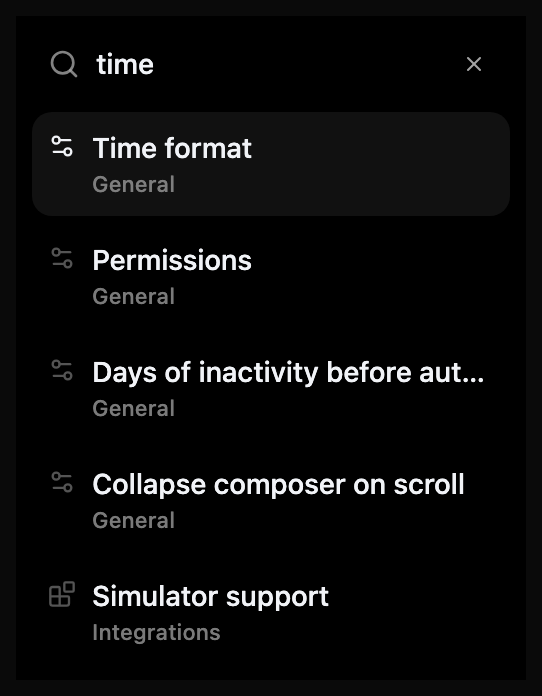
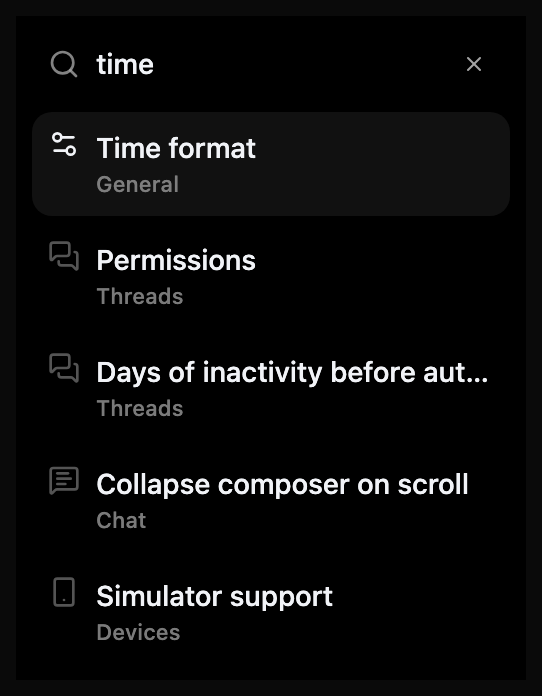
fix(fidelity): refresh classic panel and settings references
Recapture the unanswered two-question panel from Nightly 3754 with New design
off, using one Haiku 5.5 sandbox turn. Regenerate the grouped settings nav and
search results with the existing stylesheet. Match native question padding,
header slots, option colors, nav headings and icons while keeping Redesign
spacing. Fit the complete nav in its fixture and pin search to the 3754 catalog,
before the later Snooze options row.

T3 3754 source: apps/web/src/components/chat/ComposerPendingUserInputPanel.tsx:187-295;
apps/web/src/components/settings/SettingsSidebarNav.tsx:83-122,313-403;
apps/web/src/components/settings/settingsSearch.ts:85-143.

Keep every ceiling. Approval 05 needs no new reference: changing only the
model label to Haiku 5.5 reproduces the 0.0615 light diff; the full label gives
0.0533 after the existing 068aa9c3 revert. Remove the diagnostic override.

Validation: focused filter passes 7 tests; all fidelity passes 71 Features and
66 DesignSystem tests; fast lane passes 2181 Swift Testing and 18 XCTest tests.
Review native WindowServer question and nav captures in light and dark. An
existing system Keychain dialog from another process blocks keyboard search
interaction. Quit the test app, release the screen lock and remove its build.

diff --git a/Packages/CandyKit/Sources/Features/Composer/Panels/QuestionPanelView.swift b/Packages/CandyKit/Sources/Features/Composer/Panels/QuestionPanelView.swift
@@ -41,10 +41,15 @@ public final class QuestionPanelView: ComposerBannerView {
 
     // MARK: Views
 
-    /// Default density: `px-1 py-1`, the 24px icon column, `gap-x-1`.
-    static let pad: CGFloat = 4, column: CGFloat = 24, headerHeight: CGFloat = 24
-    /// `ComposerBanner.Body`: `ps-7 pe-1 pb-1`.
-    static let bodyStart: CGFloat = 28, bodyEnd: CGFloat = 4, bodyBottom: CGFloat = 4
+    /// Default density: `px-1 py-1`; the classic question header adds `px-4 pt-1.5`.
+    /// Redesign keeps its existing spacing.
+    static let pad: CGFloat = 4
+    private var isDither: Bool { ThemeRuntime.isDither(dark: effectiveAppearance.isDark) }
+    private var headerHeight: CGFloat { isDither ? 24 : 30 }
+    /// Nightly 3754 ComposerPendingUserInputPanel.tsx:237-245: `sm:ps-5.5 pe-4 pb-1`.
+    private var bodyStart: CGFloat { isDither ? 28 : 22 }
+    private var bodyEnd: CGFloat { isDither ? 4 : 16 }
+    static let bodyBottom: CGFloat = 4
 
     private var threadId: ThreadId = ""
     private var collapsedQuestionId: String?
@@ -53,7 +58,7 @@ public final class QuestionPanelView: ComposerBannerView {
     private let header = HeaderButton()
     private let headerLabel = glassLabel(font: DSFont.ui(12, weight: .medium), color: Themed.color(\.mutedForeground), lineHeight: 16)
     private let collapsedQuestion = glassLabel(font: DSFont.ui(12), color: Themed.color(\.secondaryLabel), lineHeight: 16)
-    private let counter = glassLabel(font: SB.tabular(10, .medium), color: Themed.color(\.mutedForeground), lineHeight: 14)
+    private let counter = glassLabel(font: SB.tabular(12, .medium), color: Themed.color(\.mutedForeground), lineHeight: 16)
     /// `ComposerBanner.ToggleIcon`: a ghost icon-xs button drawn `pointer-events-none`, so only
     /// its chevron (ghost icon color) shows and the header row takes the click.
     private let chevronDown = IconView(name: .chevronDown, size: 14, strokeColor: Themed.color(\.contrastMutedForeground))
@@ -255,60 +260,68 @@ public final class QuestionPanelView: ComposerBannerView {
     // MARK: Layout
 
     private func bodyHeight(width: CGFloat) -> CGFloat {
-        let textWidth = max(0, width - 2 * Self.pad - Self.bodyStart - Self.bodyEnd)
-        var h = questionText.height(forWidth: textWidth)
+        let textWidth = max(0, width - 2 * Self.pad - bodyStart - bodyEnd)
+        var h = (isDither ? 0 : 8) + questionText.height(forWidth: textWidth)
         if !multiHint.isHidden { h += 4 + 16 }
-        h += 8
-        for (i, row) in rows.enumerated() { h += (i > 0 ? 2 : 0) + row.height(forWidth: textWidth) }
+        h += isDither ? 8 : 6
+        for (i, row) in rows.enumerated() {
+            h += (isDither && i > 0 ? 2 : 0) + row.height(forWidth: textWidth + (isDither ? 0 : 6))
+        }
         return h + Self.bodyBottom
     }
 
     /// The banner's full height at `width`, the 17px under the composer included.
     public func preferredHeight(width: CGFloat) -> CGFloat {
         let body = isCollapsed || session == nil ? 0 : min(maxBodyHeight, bodyHeight(width: width))
-        return Self.pad + Self.headerHeight + body + Self.pad + Self.overlap
+        return Self.pad + headerHeight + body + Self.pad + Self.overlap
     }
 
     public override func layout() {
         super.layout()
         let w = bounds.width, pad = Self.pad
-        header.frame = NSRect(x: pad, y: pad, width: w - 2 * pad, height: Self.headerHeight)
-        // Header actions, right to left: dismiss, chevron, counter (`gap-1`).
-        var right = w - pad
+        header.frame = NSRect(x: pad, y: pad, width: w - 2 * pad, height: headerHeight)
+        // Nightly 3754 ComposerPendingUserInputPanel.tsx:187-212: `px-4 pt-1.5`, 24px action slots.
+        var right = w - pad - (isDither ? 0 : 16)
+        let headerInset: CGFloat = isDither ? 0 : 6
+        counter.font = SB.tabular(isDither ? 10 : 12, .medium)
+        counter.lineHeight = isDither ? 14 : 16
         if !dismiss.isHidden {
-            dismiss.frame = NSRect(x: right - 24, y: pad, width: 24, height: 24)
-            right -= 24 + 4
+            dismiss.frame = NSRect(x: right - 24, y: pad + headerInset, width: 24, height: 24)
+            right -= isDither ? 28 : 24
         }
-        for chevron in [chevronDown, chevronUp] { chevron.frame = NSRect(x: right - 19, y: pad + 5, width: 14, height: 14) }
+        for chevron in [chevronDown, chevronUp] { chevron.frame = NSRect(x: right - 19, y: pad + headerInset + 5, width: 14, height: 14) }
         right -= 24
         if !counter.isHidden {
-            let cw = ceil(counter.textWidth)
-            counter.frame = NSRect(x: right - 4 - cw, y: pad + 5, width: cw, height: 14)
-            right -= 4 + cw
+            let cw: CGFloat = isDither ? ceil(counter.textWidth) : 24
+            counter.frame = NSRect(x: right - (isDither ? 4 : 0) - cw, y: pad + (isDither ? 5 : 10), width: cw, height: isDither ? 14 : 16)
+            counter.alignment = isDither ? .left : .center
+            right -= cw + (isDither ? 4 : 0)
         }
-        let x = pad + Self.column + 4
+        let x = pad + (isDither ? 28 : 16)
         let hw = min(ceil(headerLabel.textWidth), max(0, right - 4 - x))
-        headerLabel.frame = NSRect(x: x, y: pad + 4, width: hw, height: 16)
-        collapsedQuestion.frame = NSRect(x: x + hw + 4, y: pad + 4, width: max(0, right - 4 - x - hw - 4), height: 16)
+        headerLabel.frame = NSRect(x: x, y: pad + (isDither ? 4 : 10), width: hw, height: 16)
+        collapsedQuestion.frame = NSRect(x: x + hw + 4, y: pad + (isDither ? 4 : 10), width: max(0, right - 4 - x - hw - 4), height: 16)
 
         let full = bodyHeight(width: w)
         let visible = min(maxBodyHeight, full)
-        scroll.frame = NSRect(x: pad, y: pad + Self.headerHeight, width: w - 2 * pad, height: visible)
+        scroll.frame = NSRect(x: pad, y: pad + headerHeight, width: w - 2 * pad, height: visible)
         // `pe-2` clears the overlay scrollbar once there is something to scroll.
         let scrollGutter: CGFloat = full > visible ? 8 : 0
         body.frame = NSRect(x: 0, y: 0, width: w - 2 * pad, height: full)
-        let tx = Self.bodyStart, tw = max(0, w - 2 * pad - Self.bodyStart - Self.bodyEnd - scrollGutter)
+        let tx = bodyStart, tw = max(0, w - 2 * pad - bodyStart - bodyEnd - scrollGutter)
         var y = questionText.height(forWidth: tw)
-        questionText.frame = NSRect(x: tx, y: 0, width: tw, height: y)
+        questionText.frame = NSRect(x: tx, y: isDither ? 0 : 8, width: tw, height: y)
+        y += isDither ? 0 : 8
         if !multiHint.isHidden {
             multiHint.frame = NSRect(x: tx, y: y + 4, width: tw, height: 16)
             y += 20
         }
-        y += 8
+        y += isDither ? 8 : 6
         for row in rows {
-            let h = row.height(forWidth: tw)
-            row.frame = NSRect(x: tx, y: y, width: tw, height: h)
-            y += h + 2
+            let outset: CGFloat = isDither ? 0 : 6
+            let h = row.height(forWidth: tw + outset)
+            row.frame = NSRect(x: tx - outset, y: y, width: tw + outset, height: h)
+            y += h + (isDither ? 2 : 0)
         }
     }
 }
@@ -319,14 +332,18 @@ private final class HeaderButton: ControlView {
     override func resetCursorRects() { addCursorRect(bounds, cursor: .pointingHand) }
 }
 
-/// One option button: `px-2.5 py-2 rounded-md gap-2`, label 14 medium, an optional 11px
+/// One option button: `sm:ps-1.5 py-1.5 rounded-md gap-2.5`, label 14 medium, an optional 11px
 /// description, with a radio or checkbox at the left and a number key at the right.
 final class OptionRow: DSView {
     var onClick: (() -> Void)?
     private(set) var value = ""
     private var selected = false, hovered = false, disabled = false
+    private var isDither: Bool { ThemeRuntime.isDither(dark: effectiveAppearance.isDark) }
+    private var textInset: CGFloat { isDither ? 36 : 32 }
+    private var paddingY: CGFloat { isDither ? 8 : 6 }
+    private var trailingInset: CGFloat { isDither ? 38 : 34 }
 
-    private let label = glassLabel(font: DSFont.ui(14, weight: .medium), color: Themed.color(\.foreground, 0.85), lineHeight: 20)
+    private let label = glassLabel(font: DSFont.ui(14, weight: .medium), color: Themed.color(\.foreground, 0.7), lineHeight: 20)
     private let detail = glassBlock(font: DSFont.ui(11), color: Themed.color(\.secondaryLabel), lineHeight: 16)
     let key = KbdView()
     let radio = RadioView()
@@ -365,13 +382,14 @@ final class OptionRow: DSView {
     }
 
     func height(forWidth width: CGFloat) -> CGFloat {
-        let textWidth = max(0, width - 10 - 16 - 10 - 8 - 20 - 10)
-        return 8 + 20 + (detail.isHidden ? 0 : 2 + detail.height(forWidth: textWidth)) + 8
+        let textWidth = max(0, width - textInset - trailingInset)
+        return paddingY + 20 + (detail.isHidden ? 0 : 2 + detail.height(forWidth: textWidth)) + paddingY
     }
 
     override func updateLayer() {
-        // idle transparent, hover `muted/30`, selected `muted/55`; labels `fg/85`, selected `fg`.
-        let fill: NSColor? = selected ? Themed.color(\.muted, 0.55) : (hovered && !disabled ? Themed.color(\.muted, 0.3) : nil)
+        // Nightly 3754 :253-257: transparent at rest, `muted/30` only on unselected hover.
+        let fill: NSColor? = isDither && selected ? Themed.color(\.muted, 0.55)
+            : (hovered && (!selected || isDither) && !disabled ? Themed.color(\.muted, 0.3) : nil)
         let cg = fill?.cgColor(in: self)
         if layer?.backgroundColor != cg {
             if window != nil, !Motion.reduced {
@@ -379,19 +397,19 @@ final class OptionRow: DSView {
             }
             layer?.backgroundColor = cg
         }
-        label.color = Themed.color(\.foreground, selected ? 1 : 0.85)
+        label.color = Themed.color(\.foreground, selected ? 1 : (isDither ? 0.85 : 0.7))
     }
 
     override func layout() {
         super.layout()
         let w = bounds.width, h = bounds.height
-        let textWidth = max(0, w - 10 - 16 - 10 - 8 - 20 - 10)
-        label.frame = NSRect(x: 36, y: 8, width: textWidth, height: 20)
-        detail.frame = NSRect(x: 36, y: 30, width: textWidth, height: max(0, h - 38))
+        let textWidth = max(0, w - textInset - trailingInset)
+        label.frame = NSRect(x: textInset, y: paddingY, width: textWidth, height: 20)
+        detail.frame = NSRect(x: textInset, y: paddingY + 22, width: textWidth, height: max(0, h - 2 * paddingY - 22))
         // T3 3814, ComposerPendingUserInputPanel.tsx:260-280: both controls align to the
         // label's first line. Selection never replaces the number key.
-        key.frame = NSRect(x: w - 10 - 20, y: 8, width: 20, height: 20)
-        radio.frame = NSRect(x: 10, y: 10, width: 16, height: 16)
+        key.frame = NSRect(x: w - (isDither ? 30 : 22), y: paddingY, width: 20, height: 20)
+        radio.frame = NSRect(x: isDither ? 10 : 6, y: paddingY + 2, width: 16, height: 16)
         checkbox.frame = radio.frame
     }
 

diff --git a/Packages/CandyKit/Sources/Features/Settings/SettingsShellViews.swift b/Packages/CandyKit/Sources/Features/Settings/SettingsShellViews.swift
@@ -71,7 +71,7 @@ public enum SettingsSection: String, CaseIterable, Sendable {
         case .scheduledTasks: .calendarClock
         case .sourceControl: .gitBranch
         case .storage: .hardDrive
-        case .connections: .link2
+        case .connections: .server
         case .beta: .flaskConical
         case .archive: .archive
         case .orchestrator: .workflow
@@ -453,8 +453,9 @@ public final class SettingsSidebarView: DSView {
         for (index, group) in shownGroups.enumerated() {
             if index > 0 { y += 12 }
             if let title = group.label, let label = groupLabels[title] {
-                label.frame = NSRect(x: 16, y: y + 4, width: max(0, bounds.width - 32), height: 16)
-                y += 28
+                // Nightly 3754 SettingsSidebarNav.tsx:368-380: 16px heading, then gap-1.
+                label.frame = NSRect(x: 16, y: y + (dither ? 4 : 0), width: max(0, bounds.width - 32), height: 16)
+                y += dither ? 28 : 20
             }
             for section in group.sections {
                 let row: NSView? = dither ? concernRows[section] : items[section]
@@ -524,7 +525,7 @@ final class DitherSettingsNavRow: ControlView {
 }
 
 /// One settings search result (SettingsSidebarNav.tsx:296-322): `SidebarMenuButton size="sm"` with
-/// `h-auto min-h-10 items-start`, the page's icon (`size-3.5 h-5`, centered on the title's line, muted at 60%), the title (14px
+/// `h-auto min-h-10 items-start`, the page's icon (`size-4`, sidebar icon color), the title (14px
 /// medium) over the page label (`text-2xs`, muted at 75%). The active result is `data-active`.
 final class SettingsSearchResultRow: ControlView {
     static let height: CGFloat = 8 + 20 + 16 + 8
@@ -533,6 +534,7 @@ final class SettingsSearchResultRow: ControlView {
     private let title = LabelView("", font: DSFont.ui(14, weight: .medium), color: Themed.color(\.sidebarForeground, sidebar: true))
     private let subtitle = LabelView("", font: DSFont.ui(11), color: Themed.color(\.sidebarMutedForeground, 0.75, sidebar: true))
     var isActive = false { didSet { restyle() } }
+    private var dither = false
     var onHover: (() -> Void)?
 
     override init(frame frameRect: NSRect) {
@@ -550,15 +552,16 @@ final class SettingsSearchResultRow: ControlView {
 
     /// Under Redesign the result names the section it opens in.
     func configure(_ item: SettingsSearchItem, dither: Bool = false) {
+        self.dither = dither
         let home = dither ? DitherSettingsSection.home(of: item.to, anchor: item.anchor) : nil
         let label = home?.label ?? item.to.label
         title.text = item.title
         subtitle.text = label
         icon.removeFromSuperview()
-        let color = Themed.color(\.sidebarMutedForeground, 0.6, sidebar: true)
+        let color = dither ? Themed.color(\.sidebarMutedForeground, 0.6, sidebar: true) : Themed.color(\.sidebarIconColor, sidebar: true)
         icon = home.map { IconView(name: $0.icon, size: 14, strokeColor: color) }
-            ?? (item.to == .snapShots ? IconView(definition: SettingsSection.snapShotIcon, size: 14, color: color)
-                : IconView(name: item.to.icon, size: 14, strokeColor: color))
+            ?? (item.to == .snapShots ? IconView(definition: SettingsSection.snapShotIcon, size: dither ? 14 : 16, color: color)
+                : IconView(name: item.to.icon, size: dither ? 14 : 16, strokeColor: color))
         addSubview(icon)
         restyle()
         needsLayout = true
@@ -579,15 +582,16 @@ final class SettingsSearchResultRow: ControlView {
         decoration.boxStyle = box
         // `hover:[&>svg]` and `data-[active=true]:[&>svg]:text-sidebar-foreground` beat the icon's own muted class.
         icon.strokeColor = isActive || state.hovered ? Themed.color(\.sidebarForeground, sidebar: true)
-            : Themed.color(\.sidebarMutedForeground, 0.6, sidebar: true)
+            : (dither ? Themed.color(\.sidebarMutedForeground, 0.6, sidebar: true) : Themed.color(\.sidebarIconColor, sidebar: true))
     }
 
     override func layout() {
         super.layout()
         decoration.layout(boxSize: bounds.size)
-        icon.frame = NSRect(x: 8, y: 11, width: 14, height: 14)
-        title.frame = NSRect(x: 30, y: 8, width: max(0, bounds.width - 38), height: 20)
-        subtitle.frame = NSRect(x: 30, y: 28, width: max(0, bounds.width - 38), height: 16)
+        icon.frame = NSRect(x: 8, y: dither ? 11 : 8, width: dither ? 14 : 16, height: dither ? 14 : 16)
+        let textX: CGFloat = dither ? 30 : 32
+        title.frame = NSRect(x: textX, y: 8, width: max(0, bounds.width - textX - 8), height: 20)
+        subtitle.frame = NSRect(x: textX, y: 28, width: max(0, bounds.width - textX - 8), height: 16)
     }
 }
 

diff --git a/Packages/CandyKit/Tests/FeaturesTests/ConnectionsFidelityTests.swift b/Packages/CandyKit/Tests/FeaturesTests/ConnectionsFidelityTests.swift
@@ -37,7 +37,9 @@ struct ConnectionsFidelityTests {
             let nav = SettingsSidebarView()
             nav.stage = .none
             let box = SidebarBox(frame: NSRect(origin: .zero, size: size))
-            nav.frame = NSRect(x: 0, y: n["kind"] == "nav" ? -52 : -(800 - 40), width: size.width, height: 800)
+            // Fit the complete classic nav between the 52px brand row and 48px footer reserve.
+            let height = n["kind"] == "nav" ? max(800, size.height + 52 + 48) : 800
+            nav.frame = NSRect(x: 0, y: n["kind"] == "nav" ? -52 : -(800 - 40), width: size.width, height: height)
             box.clipsToBounds = true
             box.addSubview(nav)
             nav.layoutSubtreeIfNeeded()

diff --git a/Packages/CandyKit/Tests/FeaturesTests/PanelsFidelityTests.swift b/Packages/CandyKit/Tests/FeaturesTests/PanelsFidelityTests.swift
@@ -35,7 +35,7 @@ struct PanelsFidelityTests {
         options: [.init(label: "Python (Recommended)", description: "Fast to write, standard library covers most CLI needs, no build step.")])
 
     /// The capture each state compares with. 05 comes from the 3473 web client, where the composer
-    /// stays usable under an approval (a93b03c8a5); 06 is still the 2861 one.
+    /// stays usable under an approval (a93b03c8a5); 06 comes from the 3754 classic web client with radio options (d414cb5103).
     static func file(_ reference: String, _ theme: String) -> String {
         "design/reference/\(reference == "05-approval-request" ? "05-approval-request-3473" : reference).\(theme).png"
     }

diff --git a/Packages/CandyKit/Tests/FeaturesTests/SettingsPagesFidelityTests.swift b/Packages/CandyKit/Tests/FeaturesTests/SettingsPagesFidelityTests.swift
@@ -29,6 +29,9 @@ struct SettingsPagesFidelityTests {
         case "nav-search":
             let nav = SettingsSidebarView()
             nav.stage = .none
+            // The classic reference is pinned to 3754. Snooze options arrived in 3814
+            // (93a9e079b1), after T3 removed the classic design switch.
+            nav.searchItems.removeAll { $0.id == "snooze-options" }
             nav.setQuery("time")
             let box = ConnectionsFidelityTests.SidebarBox(frame: NSRect(origin: .zero, size: size))
             nav.frame = NSRect(x: 0, y: -52, width: size.width, height: 800)

diff --git a/scripts/gen-connections-spec.py b/scripts/gen-connections-spec.py
@@ -60,15 +60,23 @@ def button(variant, size, inner, extra_cls="", attrs=""):
     return f'<button type="button" data-slot="button" class="{cls}"{attrs}>{inner}</button>'
 
 
-# Settings nav (SettingsSidebarNav.tsx:244-345) with the sidebar.tsx menu button.
+# Settings nav: Nightly 3754 SettingsSidebarNav.tsx:244-405, classic design, with the existing sidebar.tsx menu button.
 MB = ("peer/menu-button flex w-full cursor-pointer items-center gap-[var(--sidebar-control-gap)] overflow-hidden text-left outline-hidden ring-ring transition-[width,height,padding] hover:bg-sidebar-row-hover hover:text-sidebar-foreground focus-visible:ring-2 active:bg-sidebar-row-active active:text-sidebar-foreground disabled:pointer-events-none disabled:opacity-64 aria-disabled:pointer-events-none aria-disabled:opacity-64 data-[active=true]:bg-sidebar-row-selected data-[active=true]:font-medium data-[active=true]:text-sidebar-foreground data-[state=open]:hover:bg-sidebar-row-hover data-[state=open]:hover:text-sidebar-foreground [&>span:last-child]:truncate [&>svg:not([class*='size-'])]:size-4 [&>svg]:shrink-0 [&>svg]:text-[var(--sidebar-icon-color)] hover:[&>svg]:text-sidebar-foreground active:[&>svg]:text-sidebar-foreground data-[active=true]:[&>svg]:text-sidebar-foreground "
       "h-8 rounded-[var(--control-radius)] px-[var(--sidebar-row-content-inset)] py-1.5 text-sm font-medium text-sidebar-muted-foreground/80")
 SNAPSHOT = ('<svg xmlns="http://www.w3.org/2000/svg" width="24" height="24" viewBox="0 0 24 24" fill="none" stroke="currentColor" stroke-width="2" '
             'stroke-linecap="round" stroke-linejoin="round" aria-hidden="true"><path d="M8 3H6a3 3 0 0 0-3 3v2M16 3h2a3 3 0 0 1 3 3v2M21 16v2a3 3 0 0 1-3 3h-2M8 21H6a3 3 0 0 1-3-3v-2"></path>'
             '<rect width="10" height="8" x="7" y="8" rx="2"></rect><circle cx="12" cy="12" r="1.5"></circle></svg>')
-NAV = [("General", "settings-2"), ("Appearance", "palette"), ("Keybindings", "keyboard"), ("SnapShots", None), ("Providers", "bot"),
-       ("Integrations", "blocks"), ("Scheduled Tasks", "calendar-clock"), ("Source Control", "git-branch"), ("Storage", "hard-drive"),
-       ("Connections", "link-2"), ("Archive", "archive")]
+# Nightly 3754 settingsSearch.ts:85-143 and SettingsSidebarNav.tsx:83-106, 350-403.
+# Keep the old theme's stylesheet; only the concern groups and their content changed.
+NAV_GROUPS = [
+    (None, [("General", "settings-2"), ("Appearance", "palette"), ("Chat", "message-square-text"),
+            ("Diffs & pull requests", "file-diff"), ("Keybindings", "keyboard"), ("SnapShots", None)]),
+    ("Agents", [("Providers", "bot"), ("Threads", "messages-square"), ("Browser", "globe"),
+                ("Devices", "smartphone"), ("Scheduled tasks", "calendar-clock")]),
+    ("Code", [("Projects", "panels-top-left"), ("Source control", "git-branch"), ("Worktrees", "folder-tree")]),
+    ("Connections", [("Environments", "server"), ("Sharing & access", "shield-check")]),
+    (None, [("Maintenance", "wrench"), ("Labs", "flask-conical"), ("About", "info"), ("Archive", "archive")]),
+]
 SIDEBAR = '<div data-app-sidebar="" class="bg-sidebar text-sidebar-foreground" style="width:255px">{}</div>'
 
 
@@ -86,9 +94,17 @@ search = ('<div class="flex h-8 items-center gap-2 rounded-md px-2 py-1.5 text-s
           f'{lucide("search", "size-4 shrink-0 text-sidebar-muted-foreground/80")}'
           f'<input type="search" placeholder="Search" class="{SIDEBAR_INPUT}">'
           f'<kbd class="{KBD}" data-slot="kbd">/</kbd></div>')
-menu = "".join(menu_item(label, icon, label == "Connections", label != "Connections") for label, icon in NAV)
+def nav_group(heading, entries):
+    title = (f'<h3 class="px-2 text-xs font-medium text-sidebar-muted-foreground/80">{heading}</h3>'
+             if heading else "")
+    menu = "".join(menu_item(label, icon, label == "Environments", False) for label, icon in entries)
+    return (f'<div role="group" class="flex flex-col gap-1">{title}'
+            f'<ul class="flex w-full min-w-0 flex-col gap-1">{menu}</ul></div>')
+
+
+menu = "".join(nav_group(heading, entries) for heading, entries in NAV_GROUPS)
 nav = SIDEBAR.format('<div class="relative flex w-full min-w-0 flex-col p-[var(--sidebar-content-inset)]"><div class="flex flex-col gap-2">'
-                     f'{search}<ul class="flex w-full min-w-0 flex-col gap-1">{menu}</ul></div></div>')
+                     f'{search}<div class="flex flex-col gap-4">{menu}</div></div></div>')
 back = SIDEBAR.format('<div class="flex flex-col gap-2 px-[var(--sidebar-content-inset)] py-1"><div class="flex items-center gap-1"><div class="min-w-0 flex-1">'
                       '<ul class="flex w-full min-w-0 flex-col gap-1 flex-row items-center"><li class="group/menu-item relative min-w-0 flex-1">'
                       f'<button type="button" data-sidebar="menu-button" data-slot="sidebar-menu-button" data-active="false" class="{MB}">{lucide("arrow-left")}<span>Back</span></button>'

diff --git a/scripts/gen-settings-spec.py b/scripts/gen-settings-spec.py
@@ -26,7 +26,7 @@ lucide, button, merge, MB, SIDEBAR, KBD = conn["lucide"], conn["button"], conn["
 switch = conn["tog_ns"]["switch"]
 SIDEBAR_INPUT = conn["SIDEBAR_INPUT"]
 
-# SettingsSidebarNav.tsx:244-322 with the query "time": the clear button replaces the Kbd, results replace the nav.
+# Nightly 3754 SettingsSidebarNav.tsx:313-348 with the query "time": the clear button replaces the Kbd, results replace the nav.
 MB_SM = merge(MB.replace("h-8 rounded-[var(--control-radius)] px-[var(--sidebar-row-content-inset)] py-1.5 text-sm",
                          "h-7 rounded-lg p-2 text-xs") + " h-auto min-h-10 items-start") + " text-left"
 # The script's merge drops `text-left` next to `text-xs`; tailwind-merge keeps both (alignment and size differ).
@@ -34,15 +34,15 @@ CLEAR = button("ghost-muted", "icon-micro", lucide("x", "size-3"), "shrink-0", '
 search = ('<div class="flex h-8 items-center gap-2 rounded-md px-2 py-1.5 text-sm font-medium text-sidebar-muted-foreground hover:bg-sidebar-row-hover hover:text-sidebar-foreground">'
           f'{lucide("search", "size-4 shrink-0 text-sidebar-muted-foreground/80")}'
           f'<input type="search" placeholder="Search" value="time" class="{SIDEBAR_INPUT}">{CLEAR}</div>')
-RESULTS = [("Time format", "General", "settings-2"), ("Permissions", "General", "settings-2"),
-           ("Days of inactivity before auto-settle", "General", "settings-2"), ("Collapse composer on scroll", "General", "settings-2"),
-           ("Simulator support", "Integrations", "blocks")]
+RESULTS = [("Time format", "General", "settings-2"), ("Permissions", "Threads", "messages-square"),
+           ("Days of inactivity before auto-settle", "Threads", "messages-square"), ("Collapse composer on scroll", "Chat", "message-square-text"),
+           ("Simulator support", "Devices", "smartphone")]
 
 
 def result(title, section, icon, active):
     return (f'<li data-slot="sidebar-menu-item" class="group/menu-item relative" role="presentation"><button type="button" data-sidebar="menu-button" '
             f'data-slot="sidebar-menu-button" data-size="sm" data-active="{str(active).lower()}" role="option" class="{MB_SM}">'
-            f'{lucide(icon, "mt-0.5 size-3.5 shrink-0 text-sidebar-muted-foreground/60")}<span class="min-w-0 flex-1">'
+            f'{lucide(icon, "size-4 shrink-0 text-[var(--sidebar-icon-color)]")}<span class="min-w-0 flex-1">'
             f'<span class="block truncate text-sm font-medium text-sidebar-foreground">{title}</span>'
             f'<span class="block truncate text-2xs text-sidebar-muted-foreground/75">{section}</span></span></button></li>')
 

diff --git a/design/reference/README.md b/design/reference/README.md
@@ -14,7 +14,7 @@ Plans are in `plans/`. `plans/capture-reference-extended.swift` is the repo capt
 | 03d | Command thread | 03d-kitchen-sink-commands | Thread that ran ls, git status, failing ls | Short, no scroll. Commands are inside the collapsed "Worked for" row |
 | 04 | New-thread draft | 04-new-thread-draft | Path `/` | Default model Claude Fable 5.1 |
 | 05 | Approval request | 05-approval-request | Supervised thread, file create, approval left open | File change approval, composer replaced |
-| 06 | User input request | 06-user-input-request | Thread using AskUserQuestion, left unanswered | 1/2 question with 4 options. Recaptured 2026-10-14 from the 3105 web client (sandbox-3105, port 47393), because 3105 renders the question as Markdown (ComposerPendingUserInputPanel.tsx:257-262). Same questions, asked again in thread f0fb2cc2; the turn is still running, so the composer shows Stop |
+| 06 | User input request | 06-user-input-request | Thread using AskUserQuestion, left unanswered | 1/2 question with 4 options. Recaptured 2026-10-28 from Nightly 3754 (sandbox-3754, port 47400), classic design: switched New design off in Appearance and verified no `data-redesign`. One Haiku 5.5 turn in the sandbox Inline code project asked the same Purpose question and all four original options, plus Language, in thread `93145deb-c73f-4d37-827b-1603308c4826`; left unanswered with Stop visible. Radio indicators and the aligned Kbd column come from d414cb5103, `ComposerPendingUserInputPanel.tsx:237-295`. Captured at 1100x780, 2x, both themes with `plans/panels-3754.json` and `capture-reference-extended.swift`; paired with `t3 auth pairing create --base-dir ~/CandyWrapper-research/sandbox-3754/t3home --json` using the 3754 runtime under `env -i`. Composer top 612, banner top 333.25 CSS px |
 | 07 | Palette default | 07-palette-default | Cmd+K | |
 | 08 | Palette search | 08-palette-search | Cmd+K, type "hello" | |
 | 09 | Diff split | 09-diff-split | Cmd+D, Changes menu, Uncommitted, split button | See diff caveat |
@@ -45,7 +45,7 @@ Plans are in `plans/`. `plans/capture-reference-extended.swift` is the repo capt
 | 47 | Changed files card | 47-changed-files-card | `plans/diff-turn.json`: thread "Add notes and docstring", toast closed, card scrolled to the middle (top at 317.5 CSS px) | Captured 2026-10-10. Turn 1 changed hello.py and notes.md. No folders in this card |
 | 48 | Turn diff from the card | 48-diff-turn-file | Same, then click notes.md in the card; pointer parked on the empty panel | Right panel inline at 484 px, scope "Turn 1", files collapsed (turn diffs only scroll to the file). Layout toggle shows split because the 09 capture changed the setting |
 | 48-3473 | Turn diff from the card, 3473 | 48-diff-turn-file-3473 | plans/diff-turn.json against the 0.1.2-nightly.20261021.3473 web client (sandbox-3473, port 47396), fresh browser profile | Recaptured 2026-10-21: 3473 expands a file opened from the card (DiffPanel.tsx:551-580), and the fresh profile shows the default unified layout. `ChangedFilesFidelityTests` compares only the panel with it; the chat column shows a "Scroll to end" pill that CandyWrapper delays 150ms |
-| 05-3473 | Approval request, 3473 | 05-approval-request-3473 | Seeded with plans/seed-approval.json against the 0.1.2-nightly.20261021.3473 web client (sandbox-3473, port 47396): Haiku 5.5 picked through the model search, Supervised, file create, approval left open; then the 05 state of plans/main.json on the new thread, toast closed, fresh browser profile | Recaptured 2026-10-22: since T3 a93b03c8a5 a send declines pending approvals and redirects the agent, so the composer keeps its footer and Stop button and reads "Send a message to decline and redirect the agent" (ChatComposer.tsx:6175-6177). The banner is unchanged; the composer top moved from 694 to 616 css px. `PanelsFidelityTests` compares 05 with this capture |
+| 05-3473 | Approval request, 3473 | 05-approval-request-3473 | Seeded with plans/seed-approval.json against the 0.1.2-nightly.20261021.3473 web client (sandbox-3473, port 47396): Haiku 5.5 picked through the model search, Supervised, file create, approval left open; then the 05 state of plans/main.json on the new thread, toast closed, fresh browser profile | Recaptured 2026-10-22: since T3 a93b03c8a5 a send declines pending approvals and redirects the agent, so the composer keeps its footer and Stop button and reads "Send a message to decline and redirect the agent" (ChatComposer.tsx:6175-6177). The banner is unchanged; the composer top moved from 694 to 616 css px. `PanelsFidelityTests` compares 05 with this capture. Checked again 2026-10-28: no recapture needed. The docked light diff is 0.0533; temporarily shortening only the fixture model label to “Haiku 5.5” reproduces 0.0615 exactly (dark 0.0110 to 0.0191). Commit 068aa9c3 already reverted those phase 2 labels; the banner pixels did not regress |
 | 03n, 04n, 11n | Narrow (800 px) kitchen sink, new thread, right panel | *-narrow | narrow.json | extra |
 
 Not every extra image was opened. Looked at: 01, 02, 03a, 03b, 04, 05, 06, 07, 09, 11, 12, 13, 14, 16a, 18, 20, 21, 22, 26, 27, 29, 44. Settings pages 32-40, 45, 46, 41 to 43 and the narrow set were not checked, so verify them before relying on them.

diff --git a/PROGRESS.md b/PROGRESS.md
@@ -1,6 +1,7 @@
 # Progress
 
 - [x] Make light mode readable (taken 2026-10-28, light-mode-readability). Redesign light failed WCAG AA in 131 text, icon and edge pairs, 110 of which now pass: muted text was at 2.7:1 over the art in a thread, placeholders at 1.3:1, the focus ring at 1.7:1, white button labels on teal at 3.3:1, and pierre-light syntax at 1.8 to 4.2:1. Light now puts a floor under the dither scrim, and darkens muted text, icons, control edges, the accent and syntax colors until each reaches AA over the art's darkest dot. Dark mode and the default themes resolve to identical palettes, and the dark captures are byte-identical apart from Redesign's light thumbnail in the theme picker. Dividers stay at 1.7:1 on purpose. The default light theme is T3's own palette and still fails on hairlines, sidebar menu icons and syntax; changing it waits on the user. [Table and method](docs/research/light-mode-readability-2026-10-28.md), screenshots in ~/CandyWrapper-research/notes/light-mode-2026-10-28/. Not released.
+- [x] Refresh phase 1 panel and settings-nav fidelity references from Nightly 3754 (taken 2026-10-28, fidelity-3754). Captured 06 light/dark from one unanswered Haiku 5.5 sandbox turn with New design off; regenerated grouped nav and search references with the existing CSS. Corrected default-theme question spacing, first-line controls, nav headings and icons; kept Redesign spacing. The 3754 search fixture excludes the later Snooze options entry. No ceilings changed. Approval 05 stays at 0.0533 light / 0.0110 dark; temporarily shortening only the model label reproduces 0.0615 / 0.0191, already fixed by 068aa9c3. Focused filter: 7 tests pass. Full fidelity: 71 Features and 66 DesignSystem tests pass. Fast lane: 2,181 Swift Testing and 18 XCTest tests pass. Reviewed the diff and native WindowServer question/nav captures in both themes, saved under `~/CandyWrapper-research/sandbox/fidelity-3754-review/`; another process's existing Keychain dialog blocked keyboard/search interaction, and the long raw question prompt shows existing timeline text under the header. Test app quit, screen lock released and temporary app/profile deleted. Updated capture provenance in `design/reference/README.md` and saved `plans/panels-3754.json`. Committed locally without pushing.
 - [x] Published v1.14.9 (build 76), 2026-10-28, from `3eebd49c` on main: "Compact and send" and its menu work again and explain why when disabled. The first full suite on `999a60db` failed `MarkdownBackgroundLayoutTests.viewLaysOutInBackground`: its background layout stayed pending past a 20 s wait under the full suite's parallel load, while it passed alone 5 of 5 in 0.08 s; the file's waits now share a 120 s ceiling (`3eebd49c`), and the full suite passed on that commit (the test took 135 s under load). One dry run died in a T3 restart and one at the helper step at 38 GB free; build caches in `/private/tmp/cw-perf` (its worktrees kept) and six idle T3 worktrees' `.build` and `.swiftpm` were cleared to 50 GB. Verified: ZIP and DMG sign with Team ID 8Q677AYRU7 at 1.14.9 (76), the feed's top item is 1.14.9 (76) with the ZIP's 19,146,636 bytes, and the three helper tarballs match SHA256SUMS and the app's manifest (base v1.14.9).
 - [ ] Catch up with T3 Nightly 3814, phase 1: features, fixes and wire, no new design (taken 2026-10-28, catchup-latest-phase1). [Audit](docs/research/nightly-diff-3814.md) and [every commit's status](docs/research/nightly-diff-3814-commits.md). Done so far: Linked environments, the Beta switch, Connections' list with Link and Forget, and agents' link request cards, checked between two 3814 sandboxes. Phase 2 (the new design for the default themes, including the floating Settings panel) and phase 3 (that design in Redesign) come after.
 - [x] Published v1.14.8 (build 75), 2026-10-28, from `74da2d2d` on main: the account row's refresh button that checks for updates and turns into the update arrow, and T3 server updates on that arrow, opening the server in Machines and connections. The full suite passed on that commit. Verified: ZIP and DMG sign with Team ID 8Q677AYRU7 at 1.14.8 (75), the feed's top item is 1.14.8 (75) with the ZIP's 19,146,474 bytes, and the three helper tarballs match SHA256SUMS and the app's manifest (base v1.14.8).
